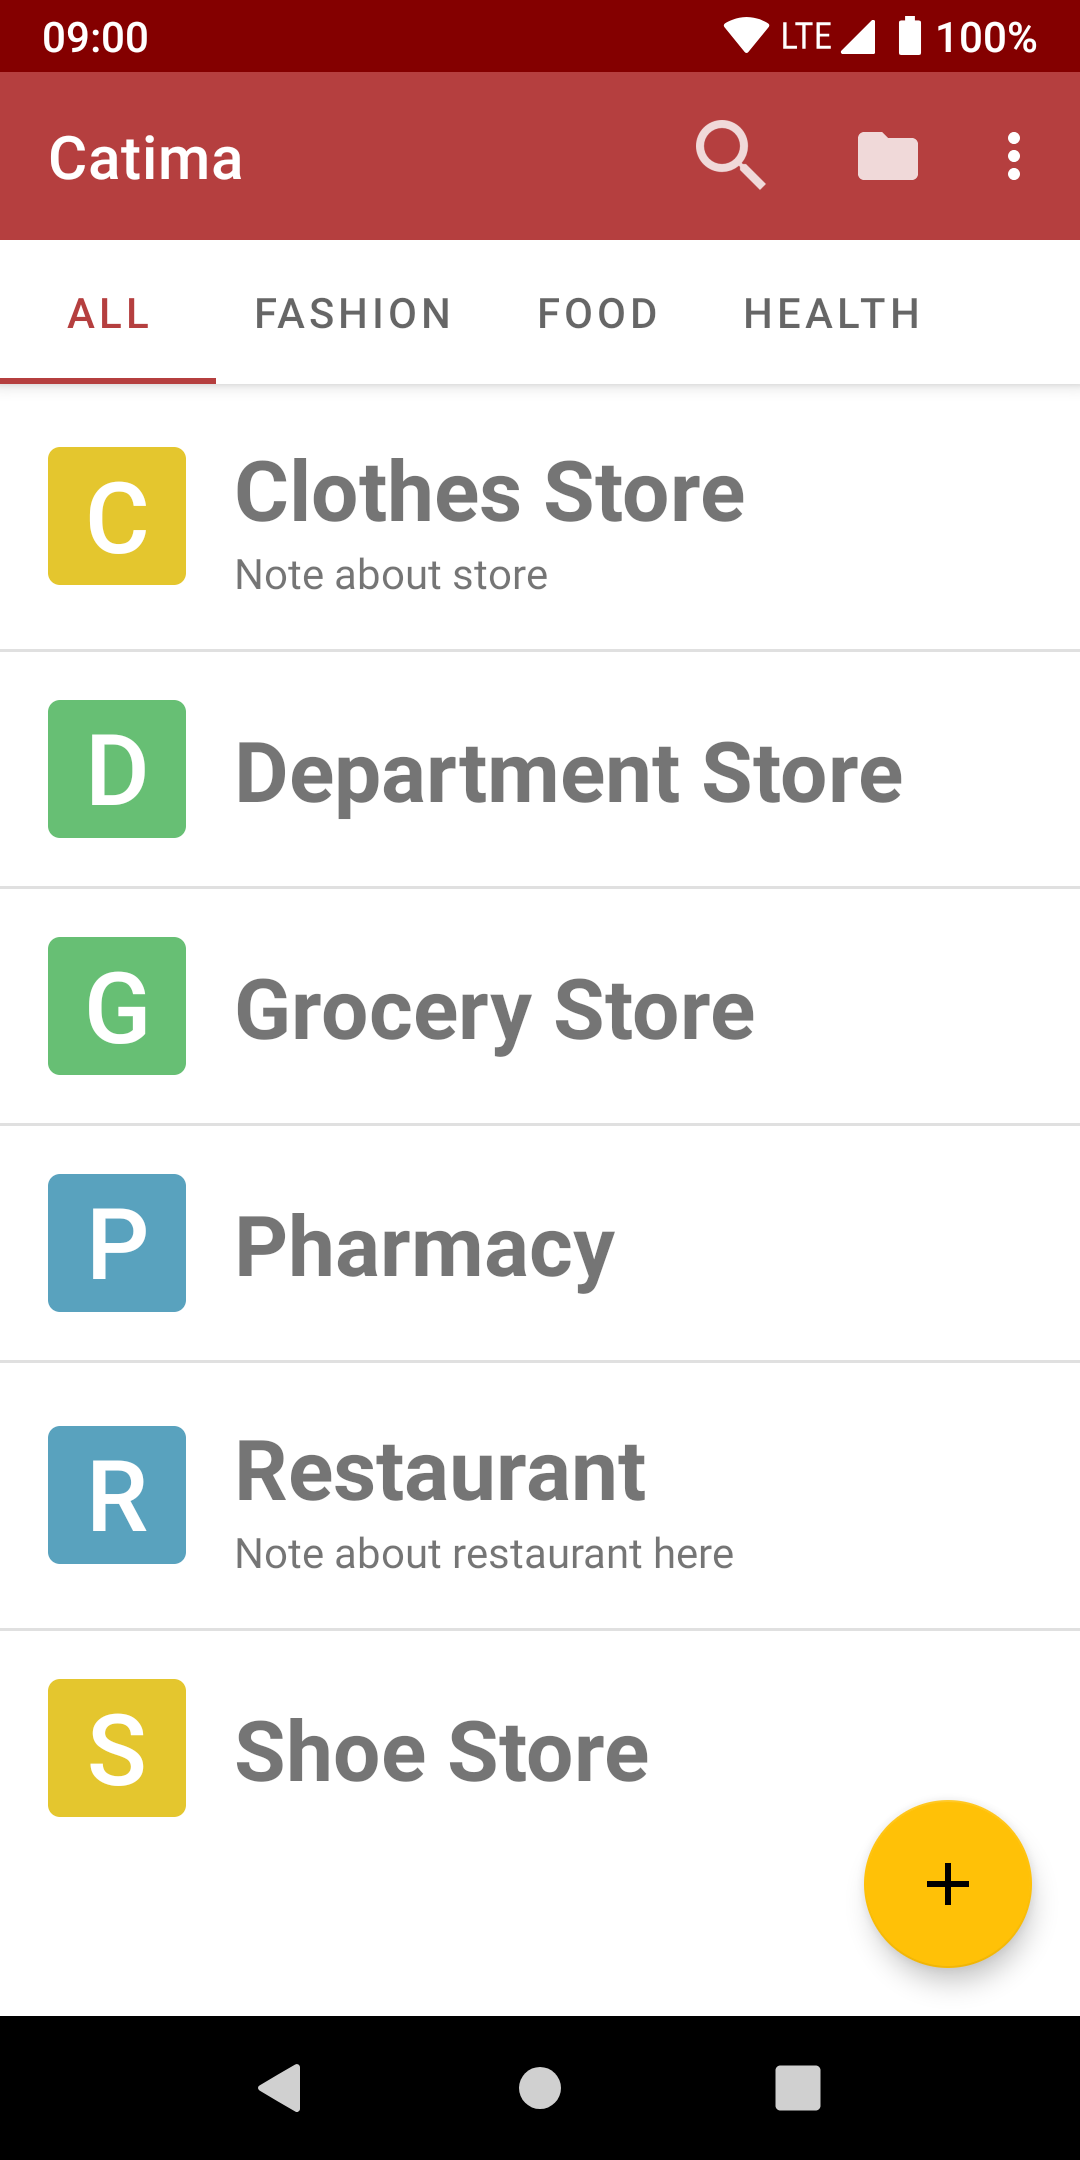
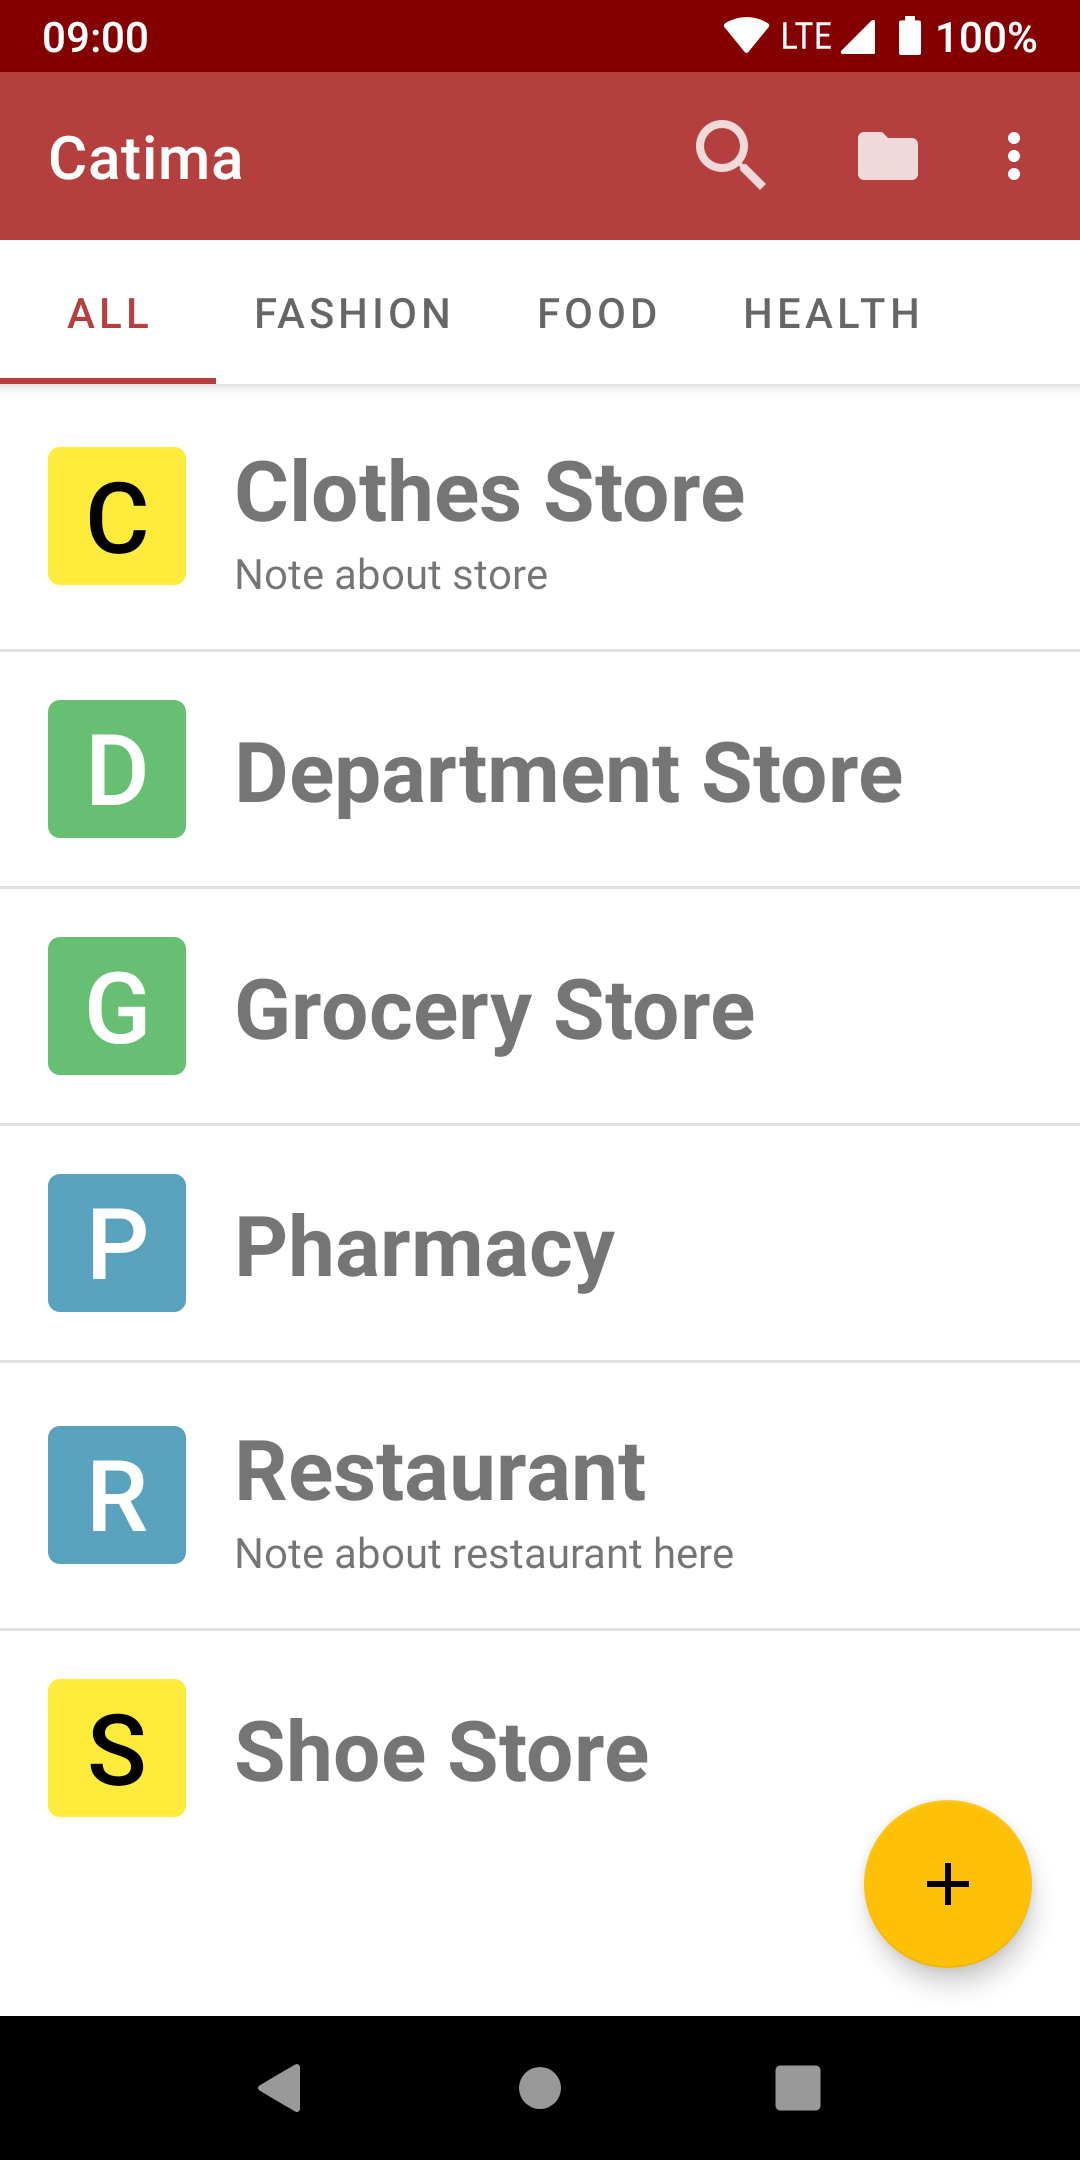
Release 1.1.0

diff --git a/CHANGELOG.md b/CHANGELOG.md
@@ -1,3 +1,10 @@
+## v1.1.0 (2020-11-11)
+
+Changes:
+- Improved edit UI
+- Removed header text colour option (now automatically generated based on brightness)
+- Updated translations
+
 ## v1.0.1 (2020-11-07)
 
 Changes:
